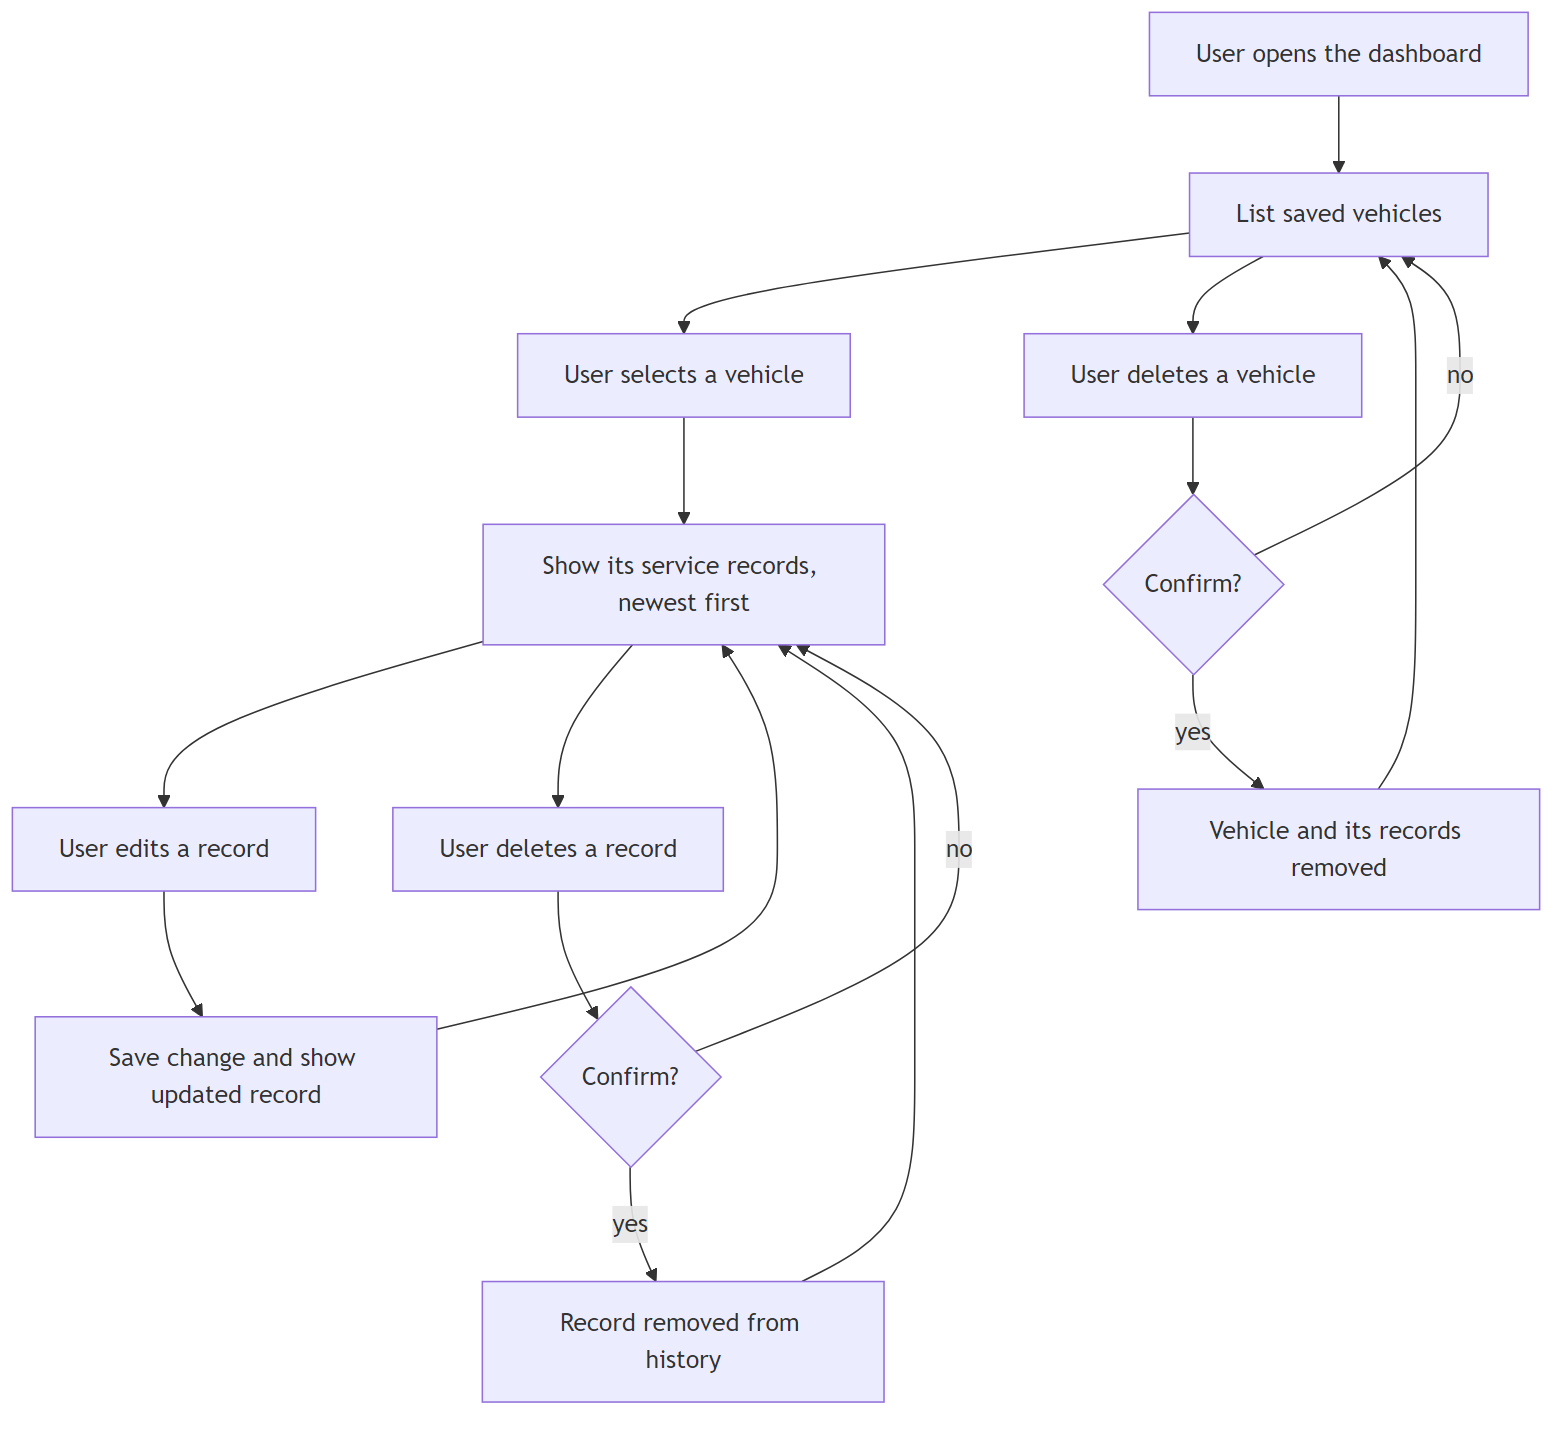
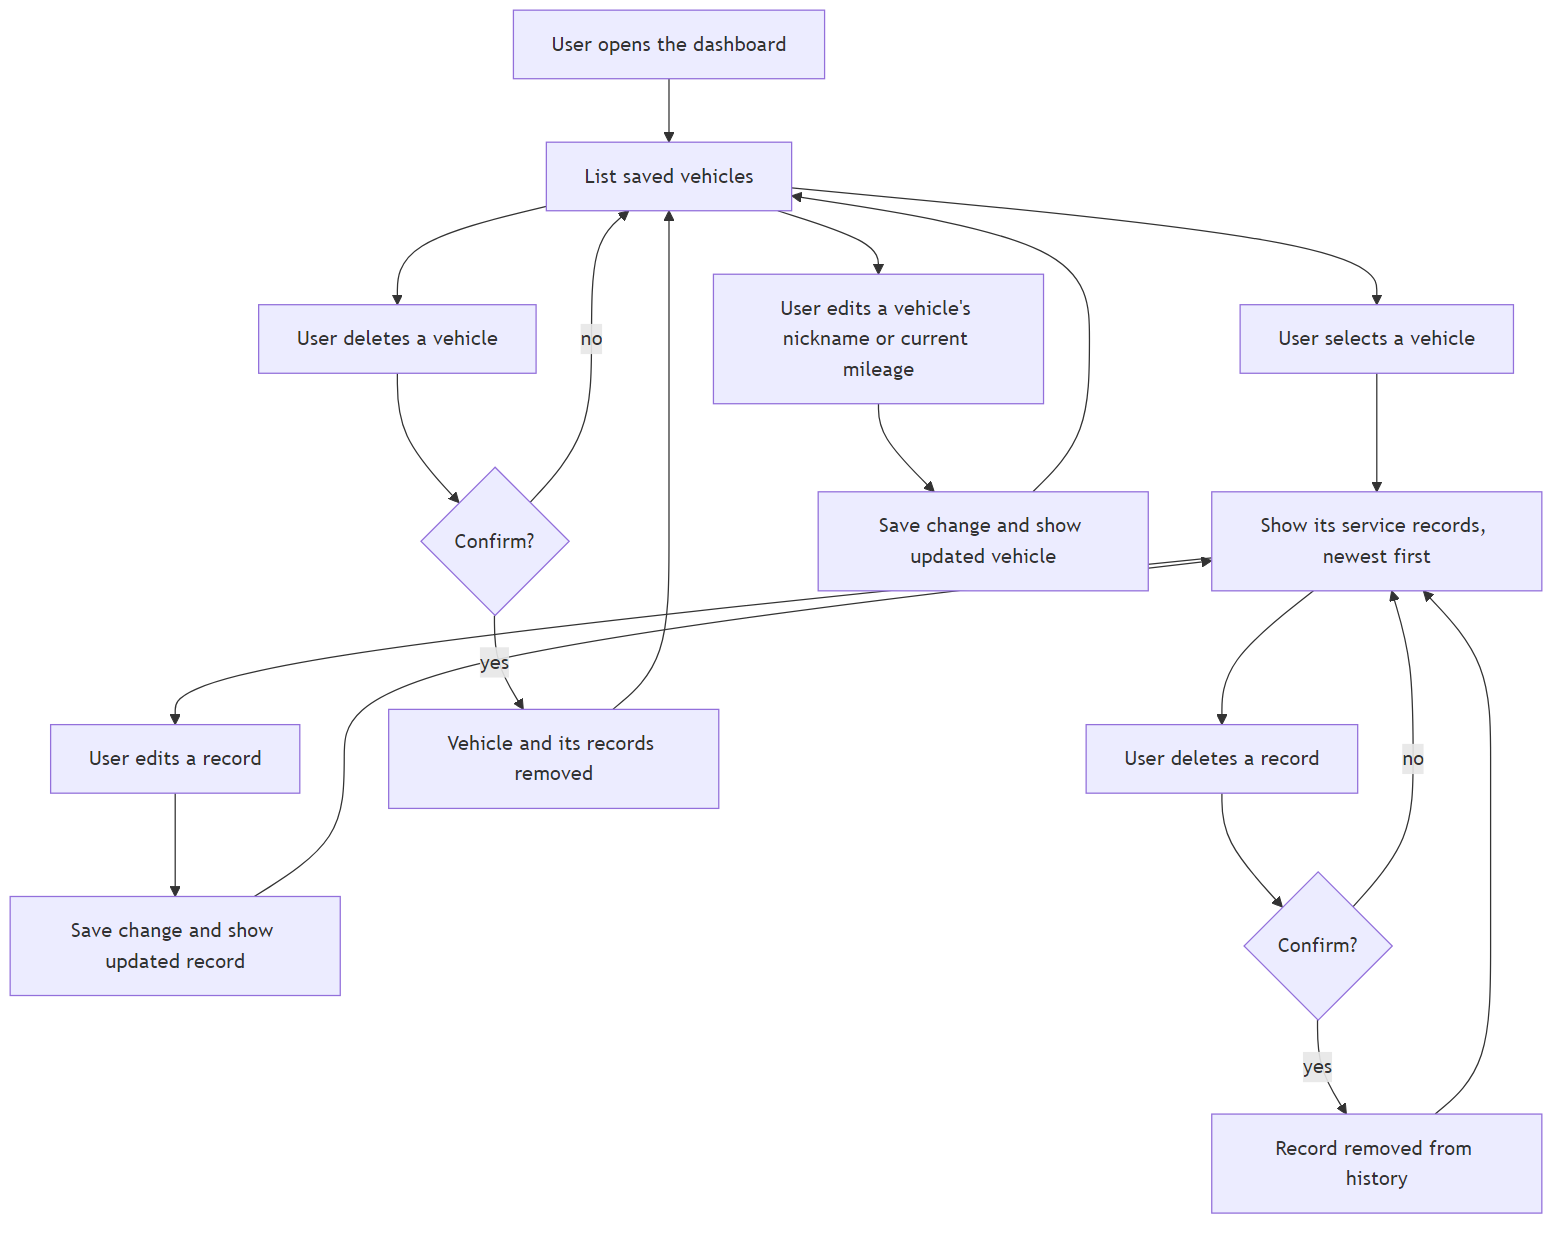
Add vehicle nickname and mileage editing to the dashboard requirements (#32)
Decision: the dashboard supports editing a vehicle, which the API already does.
No test or dashboard code covers it yet.

Assisted-by: Claude (claude-sonnet-5-5)

diff --git a/docs/design/maintenance-dashboard.md b/docs/design/maintenance-dashboard.md
@@ -20,7 +20,8 @@ not cover the screens around it (vehicle selection, service entry, import).
 
 - Listing the vehicles saved to the demo user's account.
 - Showing a selected vehicle's service records, newest first.
-- Editing a service record, deleting a service record, deleting a vehicle.
+- Editing a vehicle's nickname or current mileage, editing a service record,
+  deleting a service record, deleting a vehicle.
 - Fitting a phone-width screen, with readable text and tappable buttons.
 
 **Out of scope.**
@@ -28,9 +29,6 @@ not cover the screens around it (vehicle selection, service entry, import).
 - Status labels and the missing-data prompt (#34, #37; see
   `docs/specs/recommendations-and-alerts.md` FR-6 to FR-9 and FR-13).
 - Adding vehicles and service records (#29, #31).
-- Editing a vehicle's nickname or current mileage from the dashboard. The API
-  supports it (`docs/specs/vehicle-service-api.md` FR-10); the dashboard does
-  not use it yet.
 - Sign-in. The page acts as the seeded demo user.
 
 ## What the dashboard calls
@@ -43,6 +41,7 @@ All of these are defined in `docs/specs/vehicle-service-api.md`.
 | Select a vehicle | `GET /vehicles/{vehicle_id}/service-records` |
 | Save an edited record | `PATCH /service-records/{record_id}` |
 | Delete a record | `DELETE /service-records/{record_id}` |
+| Save an edited vehicle | `PATCH /vehicles/{vehicle_id}` |
 | Delete a vehicle | `DELETE /vehicles/{vehicle_id}` |
 
 ## Dashboard flow
@@ -62,6 +61,7 @@ listed above. Source: `diagrams/maintenance-dashboard.mmd`.*
 | FR-4 | When the user edits a service record on the dashboard, the system shall save the change and show the updated record. | #32 | `editing a service record saves it and the table shows the change` |
 | FR-5 | When the user deletes a service record on the dashboard, the system shall remove it from the vehicle's service history. | #32 | `deleting a service record after confirming removes it` |
 | FR-6 | When the user deletes a vehicle on the dashboard, the system shall remove the vehicle and all of its service records. | #32 | `deleting the selected vehicle removes it and clears its history` |
+| FR-7 | When the user edits a vehicle's nickname or current mileage on the dashboard, the system shall save the change and show the updated vehicle. | #32 | none yet |
 
 ## Non-functional requirements
 
@@ -74,5 +74,3 @@ listed above. Source: `diagrams/maintenance-dashboard.mmd`.*
 
 - **Phone-width numbers.** Neither NFR names a width or a tap-target size, and
   the team has not agreed any. Readability has no measure at all.
-- **Vehicle edits.** Whether the dashboard edits a vehicle's nickname or current
-  mileage is not decided. The API supports it.
